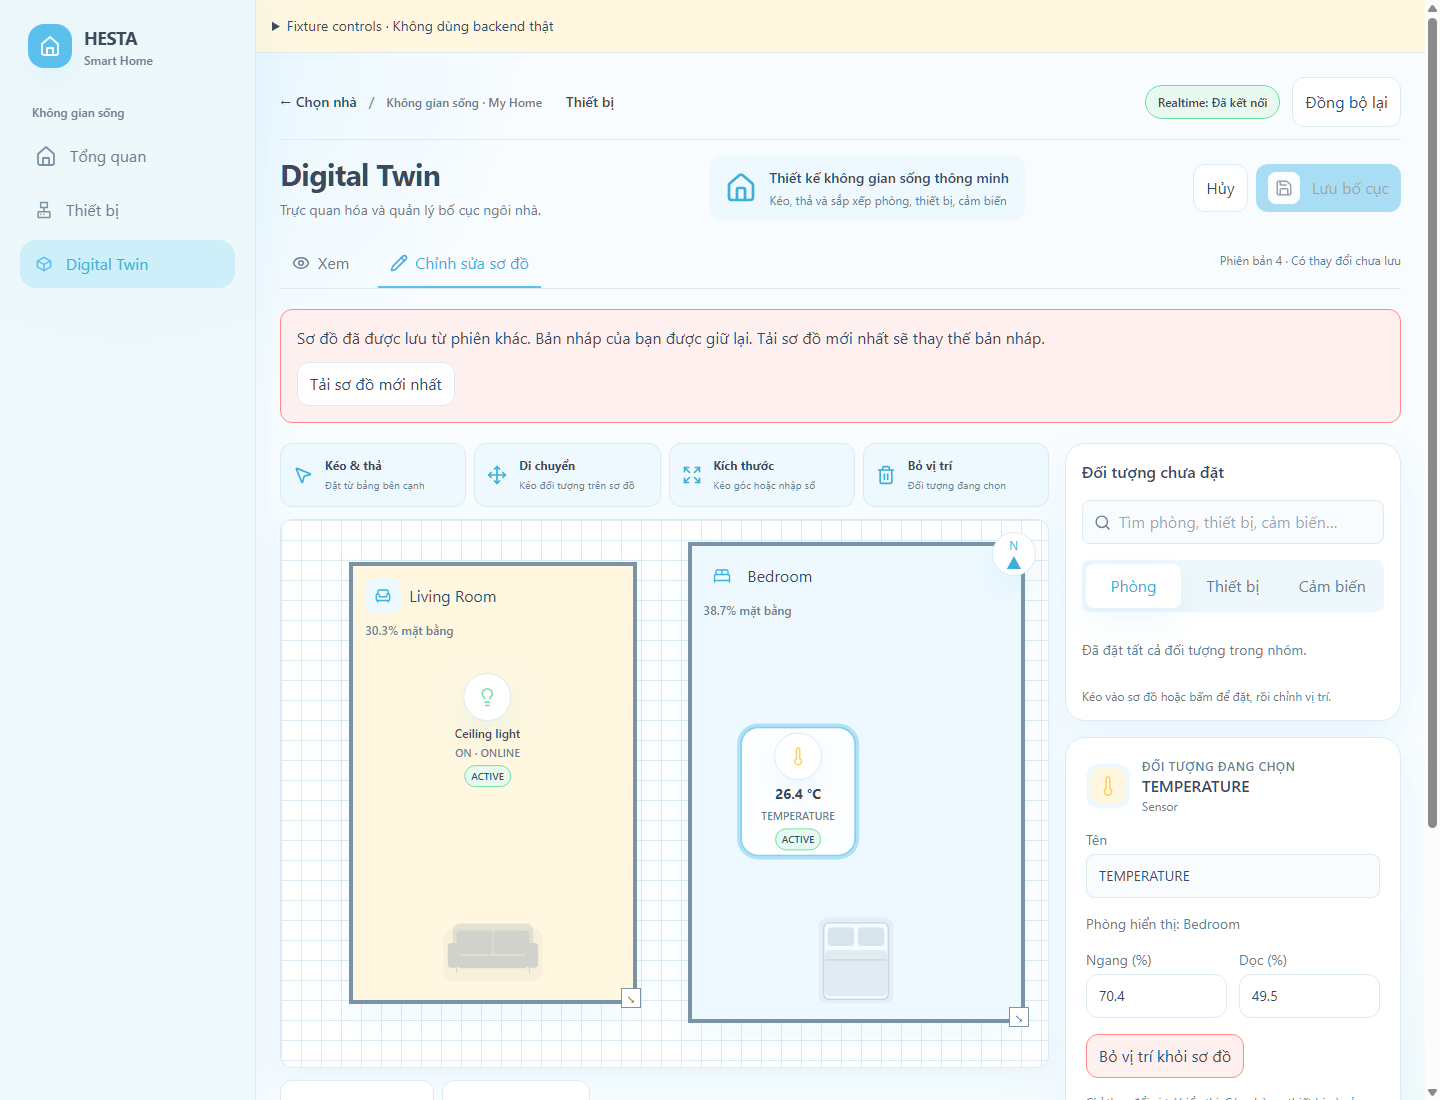
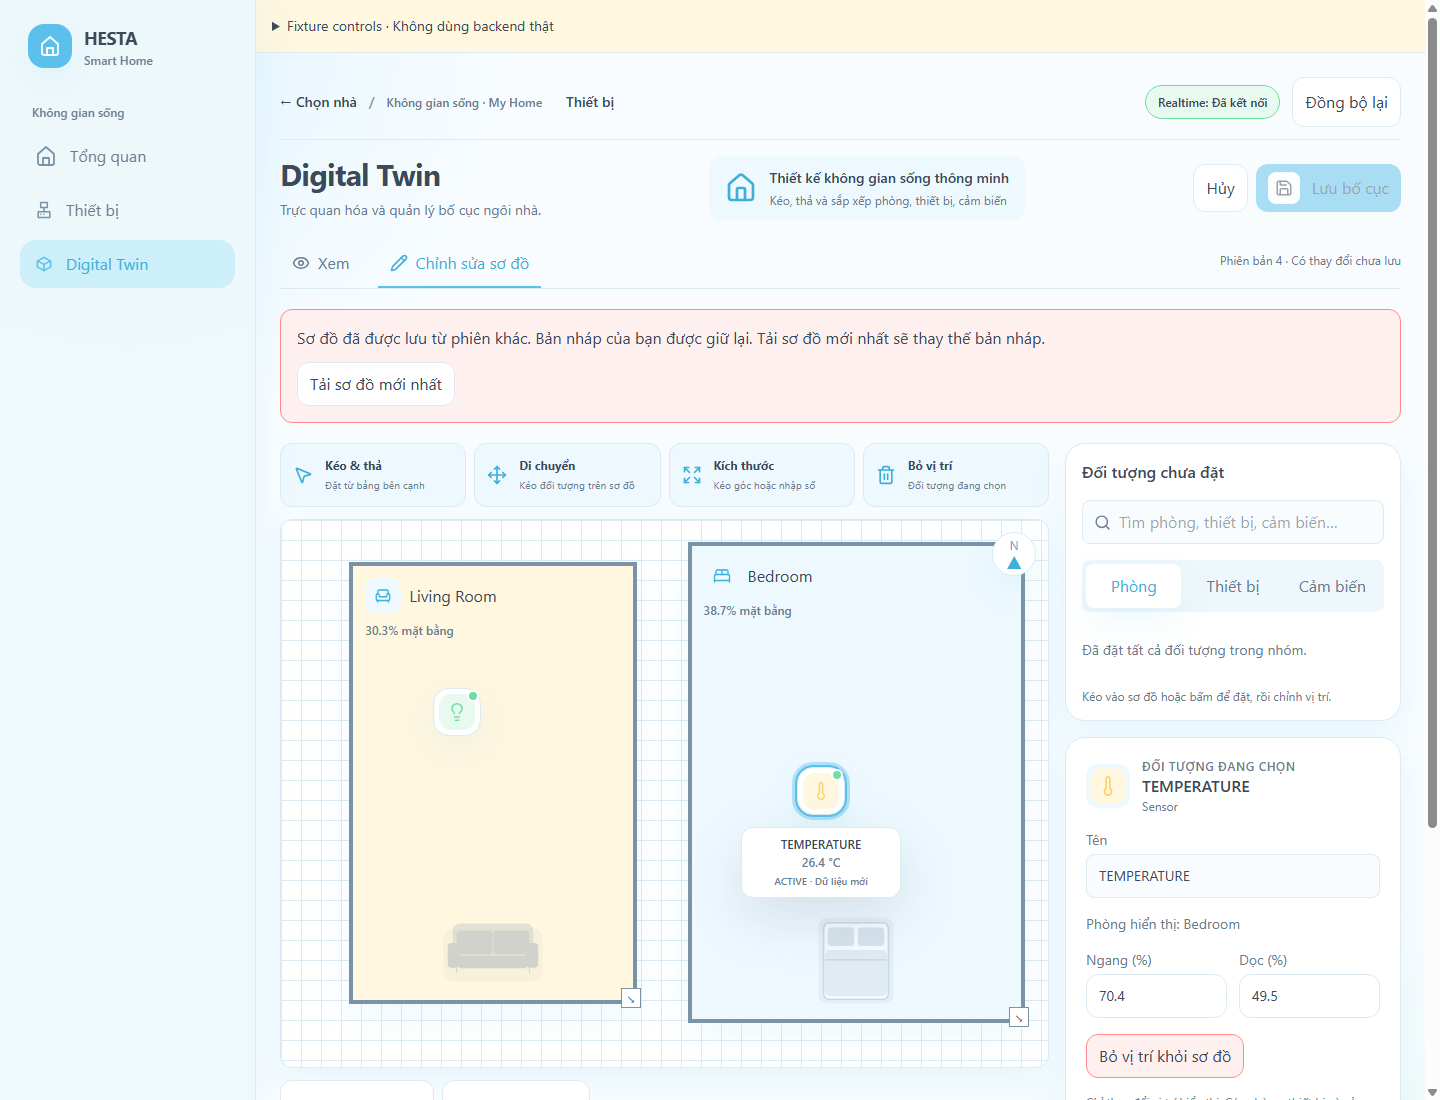
feat: add interactive TwinCanvas component for digital twin layout management

diff --git a/src/components/twin/TwinCanvas.tsx b/src/components/twin/TwinCanvas.tsx
@@ -1,8 +1,8 @@
 import { useRef, useState, type PointerEvent } from 'react';
 import { useAppSelector } from '../../store/hooks';
+import type { TwinHealthStatus } from '../../types/twin';
 import type { TwinLayoutGeometry, TwinNodeLayout, TwinRoomLayout } from '../../types/twinLayout';
 import { clampRoom, moveLayoutNode, nodeKey, resizeRoom } from './layoutGeometry';
-import { TwinHealthBadge } from './TwinHealthBadge';
 import { DeviceGlyph, RoomGlyph, SensorGlyph } from './TwinVisualIcon';
 import { RoomFurnishing } from './TwinRoomFurnishing';
 import { roomKind } from './roomKind';
@@ -11,22 +11,42 @@ import { PALETTE_MIME, placePaletteItem, type PaletteItem } from './layoutPalett
 export type LayoutSelection = { kind: 'room'; id: string } | { kind: 'node'; id: string };
 type Interaction = { pointerId: number; startX: number; startY: number; width: number; height: number; selection: LayoutSelection; resize: boolean; origin: TwinLayoutGeometry; preview: TwinLayoutGeometry };
 
+const healthDotStyles: Record<TwinHealthStatus, string> = {
+  ACTIVE: 'border-surface bg-success',
+  STALE: 'border-surface bg-warning',
+  OFFLINE: 'border-surface bg-off',
+};
+
+const healthLabels: Record<TwinHealthStatus, string> = {
+  ACTIVE: 'Dữ liệu mới',
+  STALE: 'Dữ liệu đã cũ',
+  OFFLINE: 'Không có dữ liệu mới',
+};
+
+function tooltipPosition(node: TwinNodeLayout) {
+  const vertical = node.y > 0.72 ? 'bottom-14' : 'top-14';
+  const horizontal = node.x < 0.18 ? 'left-0' : node.x > 0.82 ? 'right-0' : 'left-1/2 -translate-x-1/2';
+  return `${vertical} ${horizontal}`;
+}
+
+const markerPosition = (coordinate: number) => `clamp(1.5rem, ${coordinate * 100}%, calc(100% - 1.5rem))`;
+
 export function TwinNodeSummary({ node }: { node: TwinNodeLayout }) {
   const device = useAppSelector((state) => node.nodeType === 'DEVICE' ? state.twin.devicesById[node.nodeId] : undefined);
   const sensor = useAppSelector((state) => node.nodeType === 'SENSOR' ? state.twin.sensorsById[node.nodeId] : undefined);
-  if (!device && !sensor) return <span className="text-xs text-muted">Không còn trong dữ liệu</span>;
+  if (!device && !sensor) return <span className="flex h-10 w-10 items-center justify-center rounded-xl bg-off-soft text-xs font-semibold text-muted">?</span>;
   const power = device?.currentState && typeof device.currentState === 'object' && !Array.isArray(device.currentState) ? device.currentState.power : null;
-  if (device) return <span className="flex min-w-0 flex-col items-center gap-1">
-    <DeviceGlyph deviceType={device.deviceType} size={20} />
-    <span className="max-w-28 truncate text-center text-xs font-semibold text-text">{device.name}</span>
-    <span className="text-[11px] font-medium text-muted">{`${power === true ? 'ON' : power === false ? 'OFF' : typeof power === 'string' ? power : '—'} · ${device.status}`}</span>
-    <TwinHealthBadge compact healthStatus={device.healthStatus} />
-  </span>;
-  return <span className="flex min-w-0 flex-col items-center gap-1">
-    <SensorGlyph metricType={sensor!.metricType} size={20} />
-    <span className="text-sm font-bold text-text">{`${sensor!.latestValue ?? '—'}${sensor!.unit ? ` ${sensor!.unit}` : ''}`}</span>
-    <span className="max-w-24 truncate text-[11px] font-medium text-muted">{sensor!.metricType}</span>
-    <TwinHealthBadge compact healthStatus={sensor!.healthStatus} />
+  const healthStatus = (device ?? sensor)!.healthStatus;
+  return <span className="relative flex h-10 w-10 items-center justify-center">
+    {device ? <DeviceGlyph deviceType={device.deviceType} size={20} /> : <SensorGlyph metricType={sensor!.metricType} size={20} />}
+    <span aria-hidden="true" className={`absolute -right-0.5 -top-0.5 h-3 w-3 rounded-full border-2 ${healthDotStyles[healthStatus]}`} />
+    <span aria-hidden="true" className={`pointer-events-none absolute z-40 w-40 rounded-xl border border-line bg-surface px-3 py-2 text-center opacity-0 shadow-float transition-opacity group-hover:opacity-100 group-focus-visible:opacity-100 ${tooltipPosition(node)}`}>
+      <span className="block truncate text-xs font-semibold text-text">{device?.name ?? sensor!.metricType}</span>
+      <span className="mt-0.5 block text-xs font-medium text-muted">
+        {device ? `${power === true ? 'ON' : power === false ? 'OFF' : typeof power === 'string' ? power : '—'} · ${device.status}` : `${sensor!.latestValue ?? '—'}${sensor!.unit ? ` ${sensor!.unit}` : ''}`}
+      </span>
+      <span className="mt-1 block text-[10px] font-semibold text-muted">{`${healthStatus} · ${healthLabels[healthStatus]}`}</span>
+    </span>
   </span>;
 }
 
@@ -107,14 +127,22 @@ export function TwinCanvas({ geometry, editable, selection, onSelect, onChange, 
           className="absolute -bottom-2 -right-2 z-20 flex h-11 w-11 touch-none cursor-se-resize items-end justify-end text-text"><span className="flex h-5 w-5 items-center justify-center border border-icon bg-surface text-xs">↘</span></button> : null}
       </div>;
     })}
-    {shown.nodes.map((node) => <button type="button" key={nodeKey(node)} data-node-key={nodeKey(node)} data-x={node.x} data-y={node.y}
+    {shown.nodes.map((node) => {
+      const device = node.nodeType === 'DEVICE' ? devicesById[node.nodeId] : undefined;
+      const sensor = node.nodeType === 'SENSOR' ? sensorsById[node.nodeId] : undefined;
+      const label = device
+        ? `${device.name}, ${device.status}, ${device.healthStatus}`
+        : sensor ? `${sensor.metricType}, ${sensor.latestValue ?? 'chưa có dữ liệu'}${sensor.unit ? ` ${sensor.unit}` : ''}, ${sensor.healthStatus}` : 'Đối tượng không còn trong dữ liệu';
+      return <button type="button" key={nodeKey(node)} data-node-key={nodeKey(node)} data-x={node.x} data-y={node.y}
+      aria-label={`Chọn ${node.nodeType === 'DEVICE' ? 'thiết bị' : 'cảm biến'} ${label}`}
       aria-pressed={selection?.kind === 'node' && selection.id === nodeKey(node)}
-      style={{ left: `${node.x * 100}%`, top: `${node.y * 100}%`, transform: `translate(-${node.x * 100}%, -${node.y * 100}%)` }}
+      style={{ left: markerPosition(node.x), top: markerPosition(node.y), transform: 'translate(-50%, -50%)' }}
       onClick={() => onSelect({ kind: 'node', id: nodeKey(node) })}
       onPointerDown={(event) => begin(event, { kind: 'node', id: nodeKey(node) })} {...handlers}
-      className={`twin-canvas-node absolute z-10 rounded-2xl p-1 text-left text-xs sm:text-sm ${editable ? 'touch-none cursor-move' : ''} ${selection?.kind === 'node' && selection.id === nodeKey(node) ? 'bg-surface/90 ring-2 ring-primary/70' : ''}`}>
+      className={`twin-canvas-node group absolute z-10 flex h-12 w-12 items-center justify-center rounded-2xl border border-line bg-surface shadow-soft hover:z-30 focus-visible:z-30 ${editable ? 'touch-none cursor-move' : ''} ${selection?.kind === 'node' && selection.id === nodeKey(node) ? 'ring-2 ring-primary' : ''}`}>
       <TwinNodeSummary node={node} />
-    </button>)}
+    </button>;
+    })}
     {!shown.rooms.length && !shown.nodes.length ? <div className="pointer-events-none absolute inset-0 flex items-center justify-center p-6 text-center"><div><p className="text-lg font-semibold">Chưa có sơ đồ</p><p className="mt-2 text-sm text-muted">Chủ nhà có thể đặt phòng, thiết bị và cảm biến từ bảng bên dưới.</p></div></div> : null}
   </div></div>;
 }

diff --git a/src/index.css b/src/index.css
@@ -5,13 +5,10 @@
   background-image: linear-gradient(var(--color-line) 1px, transparent 1px), linear-gradient(90deg, var(--color-line) 1px, transparent 1px);
   background-size: 20px 20px;
 }
-.twin-canvas-node { width: 6rem; }
-.twin-canvas-node > span > span[aria-hidden] { width: 3rem; height: 3rem; border: 1px solid var(--color-line); border-radius: 50%; background: var(--color-surface); box-shadow: var(--shadow-soft); }
 .twin-tool { display: flex; align-items: center; gap: .75rem; min-height: 4rem; padding: .75rem; border: 1px solid var(--color-line); border-radius: .75rem; background: var(--color-info-soft); color: var(--color-text); }
 .twin-tool svg { flex-shrink: 0; color: var(--color-primary-hover); }
 .twin-tool strong { display: block; font-size: .75rem; }
 .twin-tool small { display: block; margin-top: .25rem; font-size: .65rem; color: var(--color-muted); }
-@media (min-width: 640px) { .twin-canvas-node { width: 7rem; } }
 @media (max-width: 639px) { .twin-room .twin-furnishing { display: none; } }
 
 @theme {
